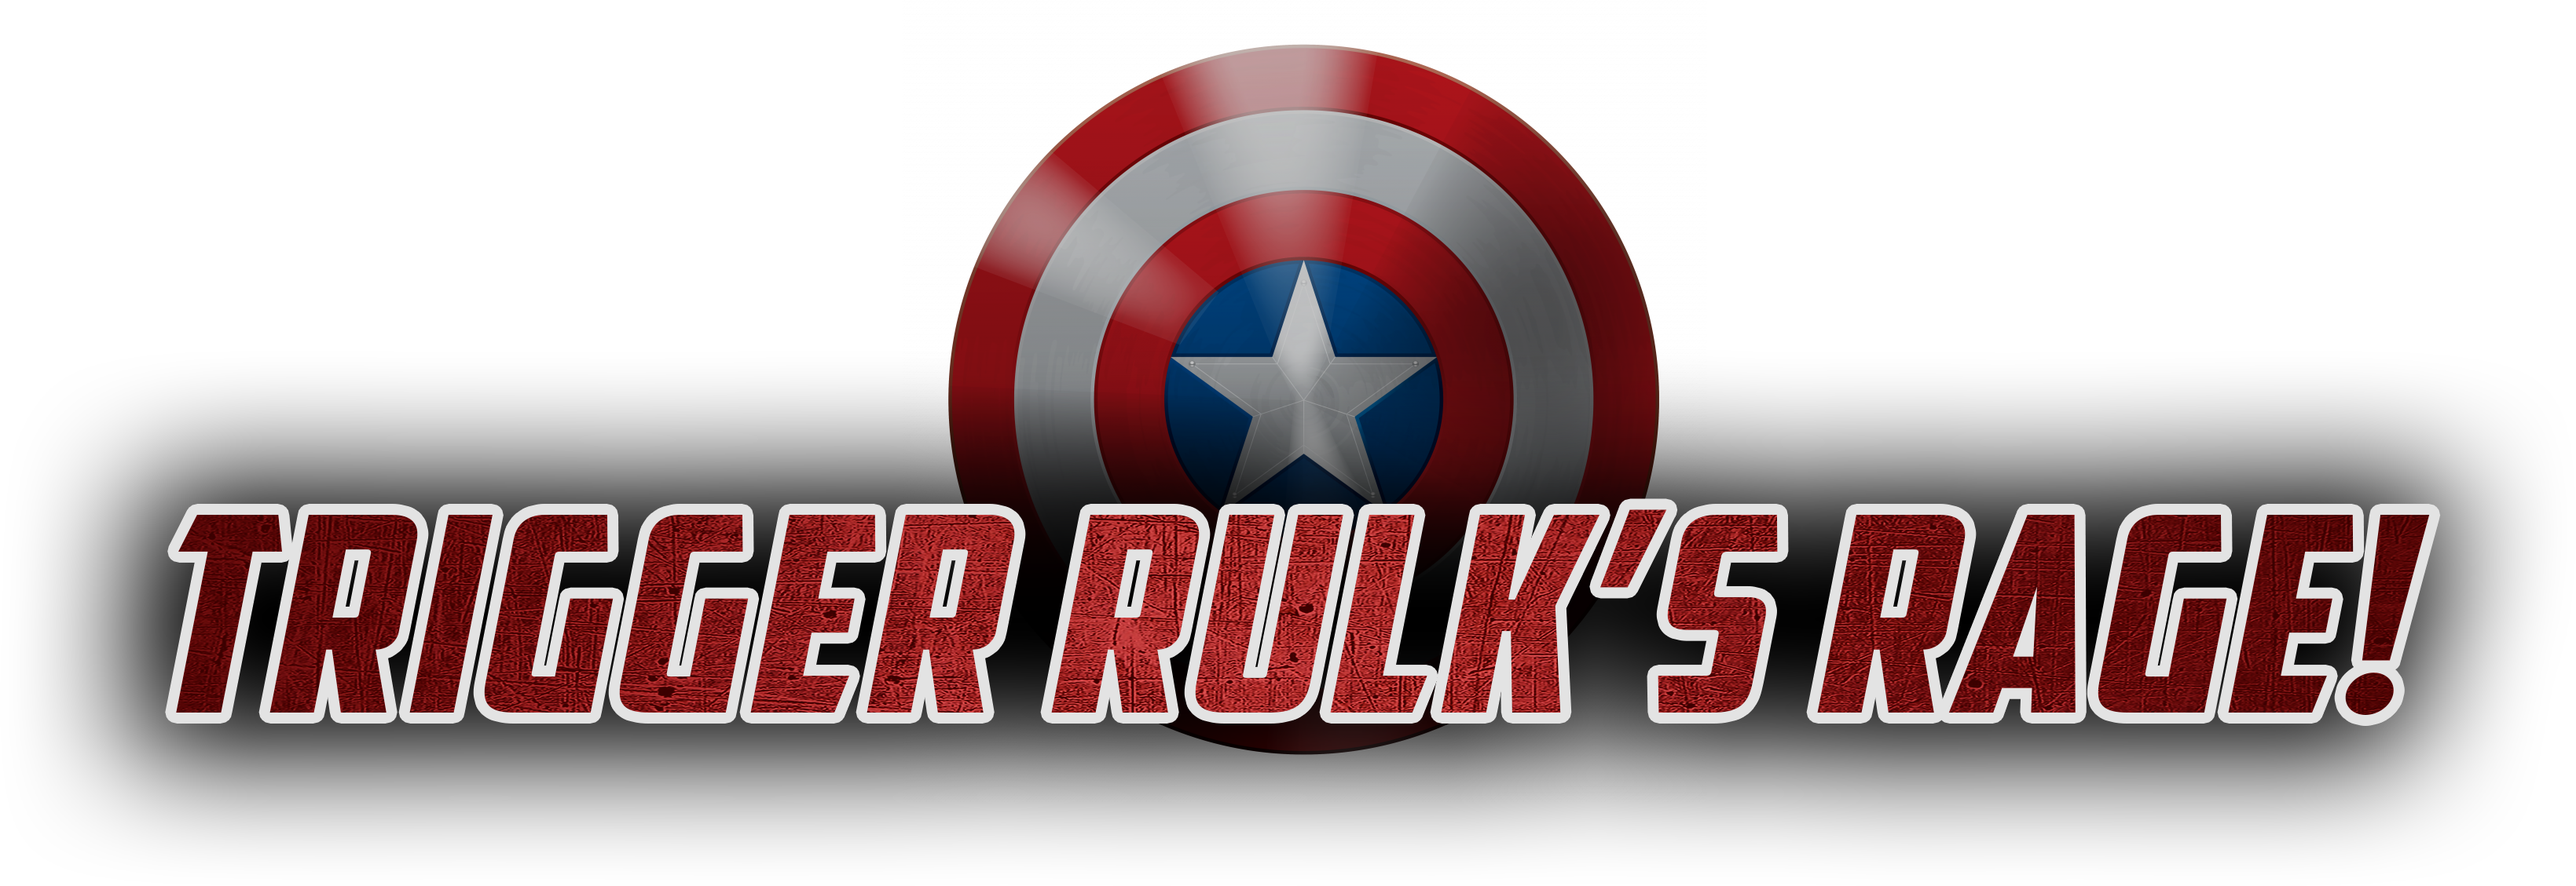
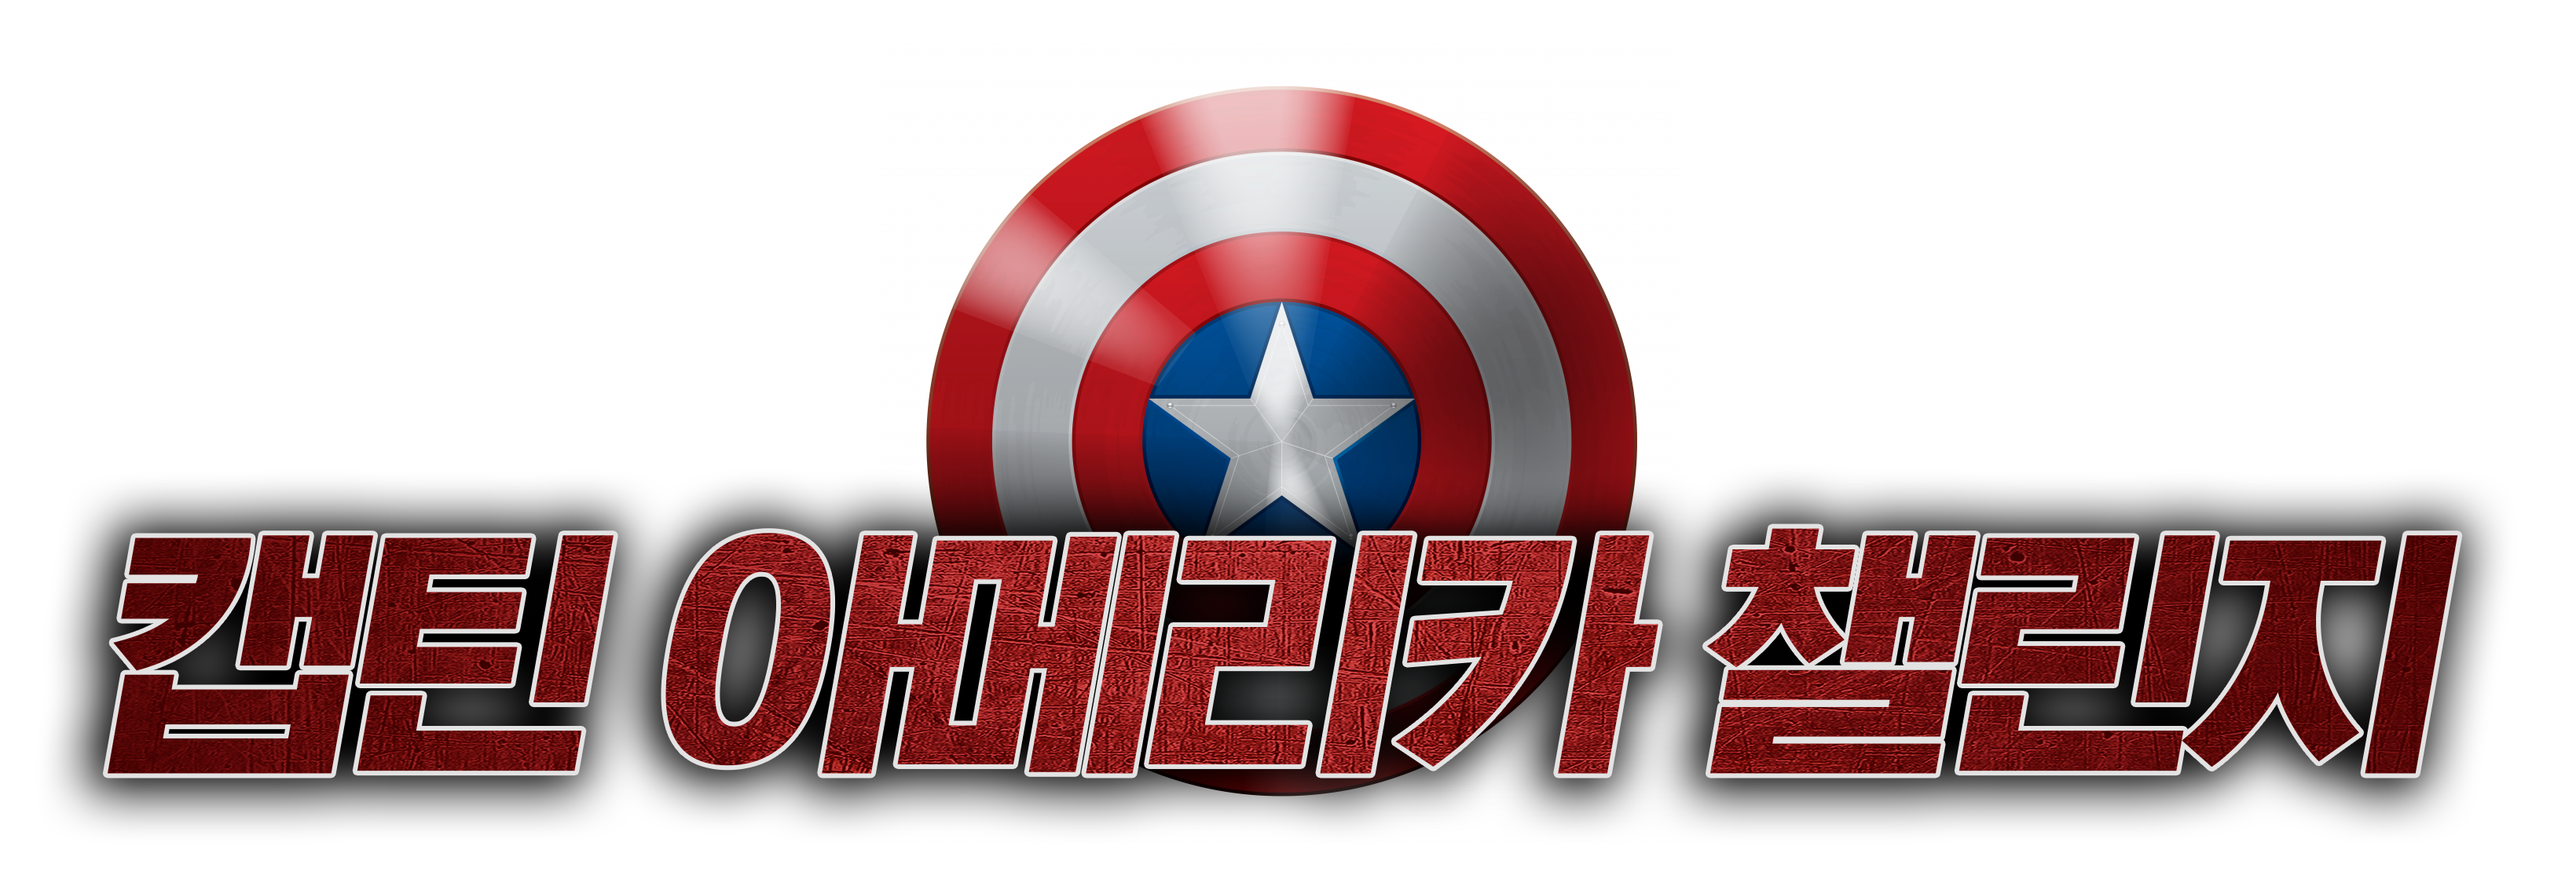
이미지 변경, 캡틴 텍스트 삭제, 스코어에서만 큐알 표시, 캡쳐 라이브러리 경로 설정

diff --git a/client/src/components/RankingList.js b/client/src/components/RankingList.js
@@ -53,7 +53,7 @@ function RankingList({ rankings, fetchRankings }) {
         setIsNew(true);
         setIsQrLoading(true);
         setQrCode('');
-        setScoreSecond(20);
+        setScoreSecond(30);
     }
   },[newScore]);
 
@@ -191,9 +191,9 @@ function RankingList({ rankings, fetchRankings }) {
 
   return (
     <div>
-      {qrCode != null ? isQrLoading ? <div className="loader"></div> : <div id="QR_code"><img src={qrCode} alt="큐알샘플"/></div> : <></>}
       {isNew? 
       <>
+          {qrCode != null ? isQrLoading ? <div className="loader"></div> : <div id="QR_code"><img src={qrCode} alt="큐알샘플"/></div> : <></>}
           <RankingScore newScore={newScore} numberImages={numberImages}/>
           <div className="scoreSecond">{scoreSecond}</div>
       </>:
@@ -239,7 +239,7 @@ function RankingList({ rankings, fetchRankings }) {
                   )}
                 </div>
                 <div className = 'name'>
-                  {ranking.Name ? <div className={newScore !== null && newScore.name == ranking.Name ?  fadeOut ? 'animate-off' : 'animate-rank-in' : ''}><span>캡틴</span>{ranking.Name}</div>: '캡틴'}
+                  {ranking.Name ? <div className={newScore !== null && newScore.name == ranking.Name ?  fadeOut ? 'animate-off' : 'animate-rank-in' : ''}>{ranking.Name}</div>: ''}
                 </div>
                 <div className={`score ${newScore !== null && newScore.name == ranking.Name ? fadeOut ? 'animate-off' : 'animate-rank-in' : ''}`}>{ranking.Score}</div>
               </div>

diff --git a/server.js b/server.js
@@ -28,6 +28,7 @@ const s3 = new AWS.S3({
 
 const BUCKET_NAME = 'ranking-app';
 
+
 // 화면 캡처 후 S3에 업로드하는 API
 app.post('/capture', async (req, res) => {
 
@@ -42,7 +43,9 @@ app.post('/capture', async (req, res) => {
 
   try {
     // Puppeteer로 페이지 캡처
-    const browser = await puppeteer.launch();
+    const browser = await puppeteer.launch({
+      executablePath: path.join(__dirname, 'node_modules/puppeteer/.local-chromium/...' /* 적절한 경로 설정 */),
+    });
     const page = await browser.newPage();
     await page.goto(decodedUrl, { waitUntil: 'networkidle2' });
 
@@ -96,17 +99,12 @@ wss.on('connection', (ws) => {
 const isPkg = typeof process.pkg !== 'undefined';
 
 // 클라이언트 빌드 폴더 경로 설정
-// const staticPath = isPkg
-//   ? path.join(path.dirname(process.execPath), 'client/build')  // 패키징된 실행 파일 내에서 상대 경로
-//   : path.join(__dirname, 'client/build');  // 로컬 개발 환경에서는 상대경로 사용
 const staticPath = path.join(__dirname, 'client/build');
 
 // CSV 파일 경로 설정
 const csvFilePath = isPkg
   ? path.join(path.dirname(process.execPath), 'data.csv')  // 패키징된 실행 파일 내에서 상대 경로
   : path.join(__dirname, 'data.csv');  // 로컬 개발 환경에서는 상대경로 사용
-
-// const csvFilePath = path.join(path.dirname(process.execPath), 'data.csv');
 
 // CSV 파일이 없으면 자동으로 생성
 if (!fs.existsSync(csvFilePath)) {

diff --git a/client/src/components/RankingForm.js b/client/src/components/RankingForm.js
@@ -33,6 +33,8 @@ const RankingForm = ({onAddRanking, goList}) => {
       onAddRanking(newRanking);
       setUserName('');
       setUserScore('');
+       // 한글 입력기로 유지
+       usernameRef.current.setAttribute('lang', 'ko');
     } catch (error) {
       console.error('Error submitting ranking:', error);
       setMessage('랭킹 제출 중 오류가 발생했습니다.');
@@ -40,7 +42,7 @@ const RankingForm = ({onAddRanking, goList}) => {
 
     handleUserInteraction();
     // 폼 제출 후 사용자 이름 input에 포커스
-    usernameRef.current.focus();
+    // usernameRef.current.focus();
   };
 
   const handleUserNameChange = (e) => {

diff --git a/client/src/components/RankingScore.js b/client/src/components/RankingScore.js
@@ -64,7 +64,7 @@ function RankingScore({newScore, numberImages}) {
 		<div className="contents" id="scoreCont">
 			<div id="title">
 				<div id="challengeName"><p><img src={title1} alt="TRIGER RULK'S RAGE"/></p></div>
-				<div id="nickName" className={`Font-V_Core ${animate ? 'move-up' : ''}`}><p><span>캡틴</span>{inputName}</p></div>
+				<div id="nickName" className={`Font-V_Core ${animate ? 'move-up' : ''}`}><p>{inputName}</p></div>
 			</div>
 			//타이틀
       {loaded?
